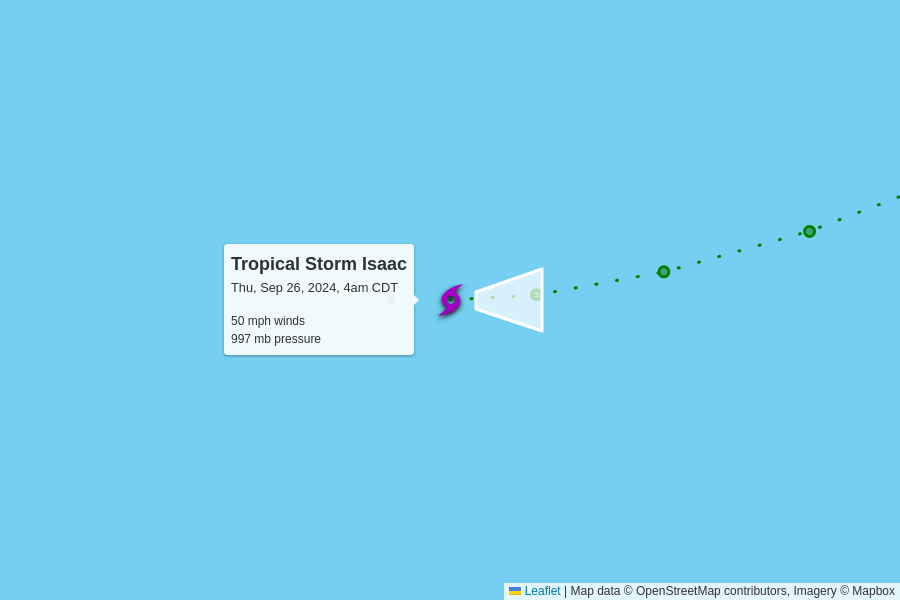
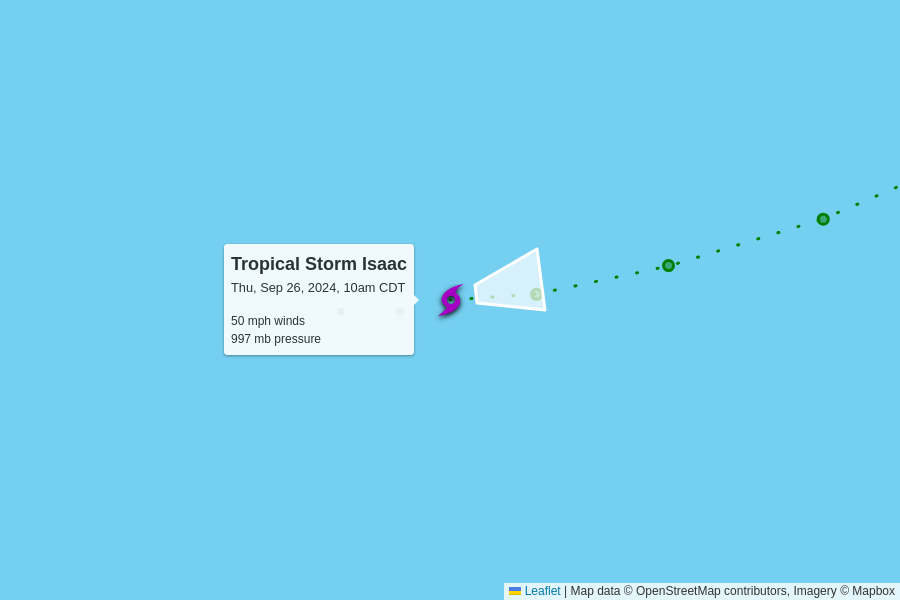
automatic update

diff --git a/docs/index.html b/docs/index.html
@@ -104,7 +104,7 @@
         <td colspan="6" class="storm category-2" >
           <h2>
             Hurricane Helene - Category 2
-            <p class="updated">last updated <span data-time>2024-09-26T12:00:00.000Z</span></p>
+            <p class="updated">last updated <span data-time>2024-09-26T15:00:00.000Z</span></p>
           </h2>
         </td>
       </tr>
@@ -119,12 +119,12 @@
       </tr>
       <tr>
         <td class="spacer"></td>
-        <td>100 mph<br>+10 mph since last update</td>
-        <td>960 mb<br>-6 mb since last update</td>
+        <td>105 mph<br>+5 mph since last update</td>
+        <td>960 mb<br>0 mb since last update</td>
         <td>
-          12 mph to the north-northeast
+          14 mph to the north-northeast
           <br/>
-          <span style="display: inline-block; font-size: 1.5em; transform: rotate(15deg);">↑</span>
+          <span style="display: inline-block; font-size: 1.5em; transform: rotate(25deg);">↑</span>
         </td>
         <td><a href="https://raw.githubusercontent.com/mgwalker/atlantic-hurricanes/main/data/csv/AL092024.csv">AL092024.csv</a></td>
         <td><a href="https://www.nhc.noaa.gov/archive/2024/HELENE.shtml?">NHC advisories</a></td>
@@ -148,7 +148,7 @@
         <td colspan="6" class="storm category-0" >
           <h2>
             Tropical Storm Isaac
-            <p class="updated">last updated <span data-time>2024-09-26T09:00:00.000Z</span></p>
+            <p class="updated">last updated <span data-time>2024-09-26T15:00:00.000Z</span></p>
           </h2>
         </td>
       </tr>
@@ -168,7 +168,7 @@
         <td>
           12 mph to the east
           <br/>
-          <span style="display: inline-block; font-size: 1.5em; transform: rotate(90deg);">↑</span>
+          <span style="display: inline-block; font-size: 1.5em; transform: rotate(80deg);">↑</span>
         </td>
         <td><a href="https://raw.githubusercontent.com/mgwalker/atlantic-hurricanes/main/data/csv/AL102024.csv">AL102024.csv</a></td>
         <td><a href="https://www.nhc.noaa.gov/archive/2024/ISAAC.shtml?">NHC advisories</a></td>
